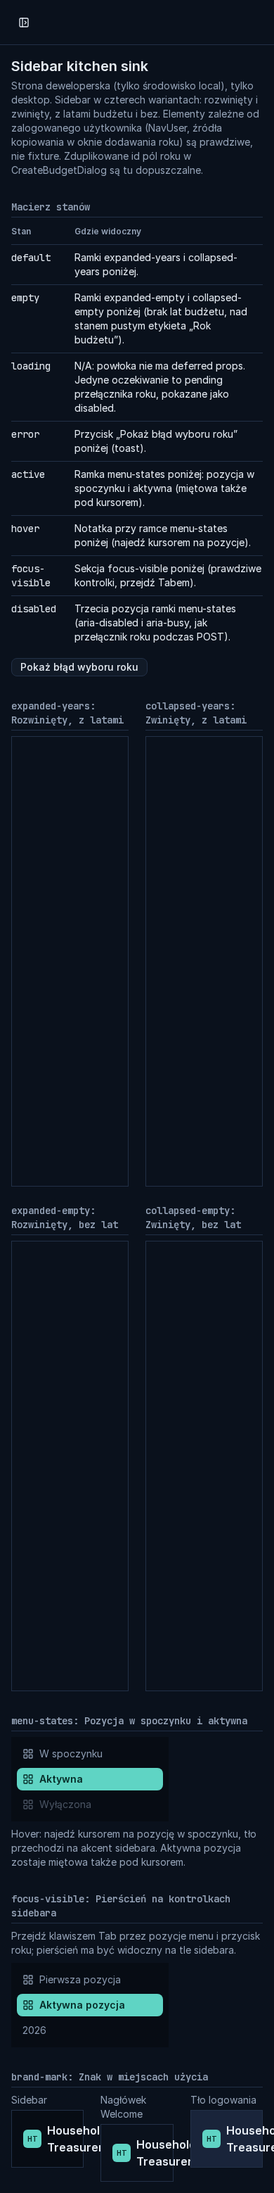
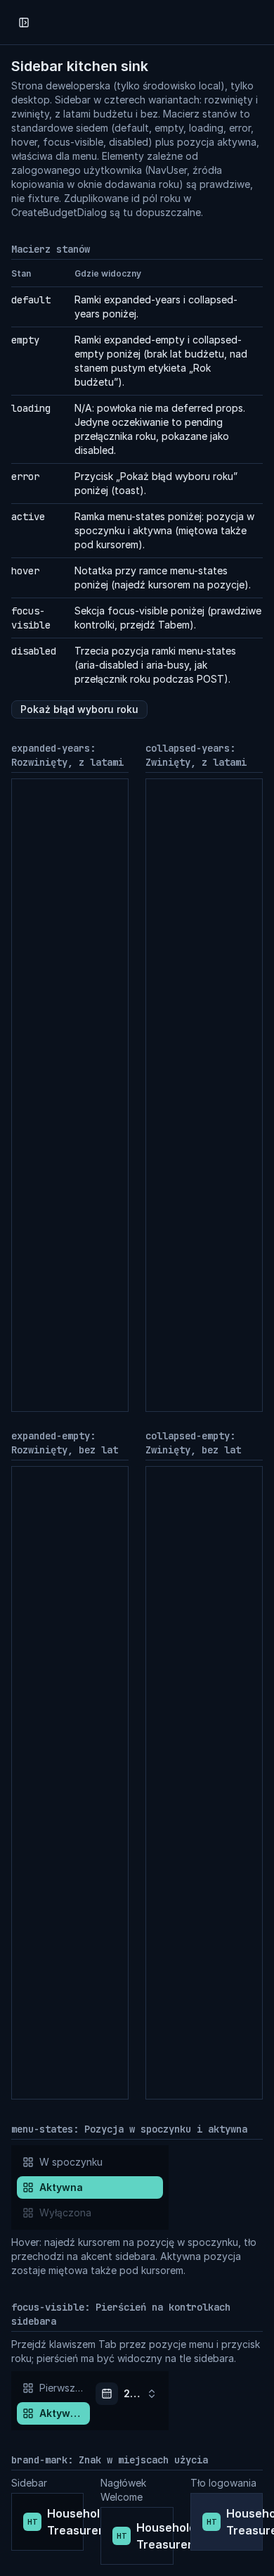
fix(sidebar-atrament-ui): poprawki z impl-review
Nazwa dostępna przycisku roku, centrowanie znaku i awatara w trybie ikon,
ramki sinka na wysokość okna z blokiem użytkownika, prawdziwy
BudgetYearSwitcher w sekcji focus-visible, ostrzejsze asercje kontraktu,
raport przeglądu i wyjątek dla ikony Vault w planie.

Claude-Session: https://claude.ai/code/session_01LmWq2eLztC18XusKPSGhRV

diff --git a/resources/js/pages/dev/SidebarKitchenSink.vue b/resources/js/pages/dev/SidebarKitchenSink.vue
@@ -3,6 +3,7 @@ import { Head, usePage } from '@inertiajs/vue3';
 import { LayoutGrid } from '@lucide/vue';
 import AppSidebar from '@/components/AppSidebar.vue';
 import BrandMark from '@/components/BrandMark.vue';
+import BudgetYearSwitcher from '@/components/BudgetYearSwitcher.vue';
 import { Button } from '@/components/ui/button';
 import {
     SidebarMenu,
@@ -125,7 +126,9 @@ const frames: SidebarFrame[] = [
             <p class="text-muted-foreground text-sm">
                 Strona deweloperska (tylko środowisko local), tylko desktop.
                 Sidebar w czterech wariantach: rozwinięty i zwinięty, z latami
-                budżetu i bez. Elementy zależne od zalogowanego użytkownika
+                budżetu i bez. Macierz stanów to standardowe siedem (default,
+                empty, loading, error, hover, focus-visible, disabled) plus
+                pozycja aktywna, właściwa dla menu. Elementy zależne od zalogowanego użytkownika
                 (NavUser, źródła kopiowania w oknie dodawania roku) są
                 prawdziwe, nie fixture. Zduplikowane id pól roku w
                 CreateBudgetDialog są tu dopuszczalne.
@@ -181,7 +184,7 @@ const frames: SidebarFrame[] = [
                     {{ frame.key }}: {{ frame.label }}
                 </h2>
                 <div
-                    class="relative h-160 transform-gpu overflow-hidden border"
+                    class="relative h-svh transform-gpu overflow-hidden border"
                 >
                     <SidebarProvider
                         :default-open="frame.defaultOpen"
@@ -262,12 +265,11 @@ const frames: SidebarFrame[] = [
                             <span>Aktywna pozycja</span>
                         </SidebarMenuButton>
                     </SidebarMenuItem>
-                    <SidebarMenuItem>
-                        <SidebarMenuButton>
-                            <span>2026</span>
-                        </SidebarMenuButton>
-                    </SidebarMenuItem>
                 </SidebarMenu>
+                <BudgetYearSwitcher
+                    :budget-years="[2025, 2026]"
+                    :budget-year="2026"
+                />
             </SidebarProvider>
         </section>
 

diff --git a/resources/js/ui-contract.test.ts b/resources/js/ui-contract.test.ts
@@ -227,8 +227,28 @@ describe('sidebar follows the Atrament Sidebar component (ADR-0053)', () => {
         expect(css).toMatch(/--sidebar-panel-width:\s*224px/);
     });
 
-    it('marks the current section with aria-current in NavMain', () => {
-        expect(read('components/NavMain.vue')).toContain('aria-current');
+    it('marks the current section with aria-current="page" from the same check as is-active', () => {
+        const navMain = read('components/NavMain.vue');
+
+        expect(navMain).toMatch(/:is-active="isActive\(item\)"/);
+        expect(navMain).toMatch(
+            /:aria-current="isActive\(item\) \? 'page' : undefined"/,
+        );
+    });
+
+    it.each(['components/AppLogo.vue', 'components/UserInfo.vue'])(
+        'centres the mark or avatar in the collapsed icon rail in %s',
+        (file) => {
+            expect(read(file)).toContain(
+                'group-data-[collapsible=icon]:mx-auto',
+            );
+        },
+    );
+
+    it('names the budget year button with the section label and the year', () => {
+        expect(read('components/BudgetYearSwitcher.vue')).toMatch(
+            /:aria-label="`\$\{t\.shell\.budget_year\}: \$\{budgetYear\}`"/,
+        );
     });
 
     it('renders section labels with label-caps', () => {
@@ -238,9 +258,13 @@ describe('sidebar follows the Atrament Sidebar component (ADR-0053)', () => {
     });
 
     it.each([
+        'components/AppSidebar.vue',
+        'components/AppLogo.vue',
         'components/BudgetYearSwitcher.vue',
-        'components/ui/sidebar/SidebarGroupLabel.vue',
         'components/NavMain.vue',
+        'components/NavUser.vue',
+        'components/UserInfo.vue',
+        'components/ui/sidebar/SidebarGroupLabel.vue',
     ])('does not dim text with text-sidebar-foreground/80 in %s', (file) => {
         expect(read(file)).not.toContain('text-sidebar-foreground/80');
     });

diff --git a/resources/js/components/UserInfo.vue b/resources/js/components/UserInfo.vue
@@ -26,7 +26,11 @@ const showAvatar = computed(
 <template>
     <Avatar
         class="overflow-hidden"
-        :class="variant === 'sidebar' ? 'size-7' : 'size-8'"
+        :class="
+            variant === 'sidebar'
+                ? 'size-7 group-data-[collapsible=icon]:mx-auto'
+                : 'size-8'
+        "
     >
         <AvatarImage v-if="showAvatar" :src="user.avatar!" :alt="user.name" />
         <AvatarFallback
@@ -40,7 +44,10 @@ const showAvatar = computed(
         </AvatarFallback>
     </Avatar>
 
-    <div class="grid flex-1 text-left text-sm leading-tight">
+    <div
+        class="grid flex-1 text-left text-sm leading-tight"
+        :class="variant === 'sidebar' && 'group-data-[collapsible=icon]:sr-only'"
+    >
         <span class="truncate font-medium">{{ user.name }}</span>
         <span
             v-if="variant === 'sidebar'"

diff --git a/resources/js/components/NavUser.vue b/resources/js/components/NavUser.vue
@@ -32,7 +32,9 @@ const { isMobile, state } = useSidebar();
                         data-test="sidebar-menu-button"
                     >
                         <UserInfo :user="user" variant="sidebar" />
-                        <ChevronsUpDown class="ml-auto size-4" />
+                        <ChevronsUpDown
+                            class="ml-auto size-4 group-data-[collapsible=icon]:hidden"
+                        />
                     </SidebarMenuButton>
                 </DropdownMenuTrigger>
                 <DropdownMenuContent

diff --git a/resources/js/components/BudgetYearSwitcher.vue b/resources/js/components/BudgetYearSwitcher.vue
@@ -109,6 +109,7 @@ function selectYear(value: unknown): void {
                         size="lg"
                         class="data-[state=open]:bg-sidebar-accent data-[state=open]:text-sidebar-accent-foreground"
                         :tooltip="`${t.shell.budget_year}: ${budgetYear}`"
+                        :aria-label="`${t.shell.budget_year}: ${budgetYear}`"
                         :aria-disabled="pending"
                         :aria-busy="pending"
                     >

diff --git a/resources/js/components/AppLogo.vue b/resources/js/components/AppLogo.vue
@@ -6,8 +6,10 @@ const name = usePage().props.name;
 </script>
 
 <template>
-    <BrandMark />
-    <div class="ml-1 grid flex-1 text-left text-sm">
+    <BrandMark class="group-data-[collapsible=icon]:mx-auto" />
+    <div
+        class="ml-1 grid flex-1 text-left text-sm group-data-[collapsible=icon]:sr-only"
+    >
         <span
             class="text-sidebar-strong mb-0.5 truncate leading-tight font-semibold"
             >{{ name }}</span

diff --git a/context/changes/sidebar-atrament-ui/reviews/impl-review.md b/context/changes/sidebar-atrament-ui/reviews/impl-review.md
@@ -1,0 +1,117 @@
+<!-- IMPL-REVIEW-REPORT -->
+# Implementation Review: Sidebar według komponentu Sidebar z Atramentu
+
+- **Plan**: context/changes/sidebar-atrament-ui/plan.md
+- **Scope**: Full plan
+- **Reviewed phases**: 1, 2, 3, 4, 5, 6
+- **Date**: 2026-11-06
+- **Verdict**: NEEDS ATTENTION
+- **Findings**: 0 critical, 4 warnings, 2 observations
+
+## Verification run (this review)
+
+| Command | Result |
+|---------|--------|
+| `npm test` | 33 files, 332 tests passed |
+| `npm run check:ui` | exit 0 |
+| `npm run types:check` | exit 0 |
+| `npm run build` | exit 0 |
+| `vendor/bin/sloppy ci` | 100/100, 0 findings |
+| Pest `SidebarKitchenSinkTest`, `AppShellTest` (PostgreSQL, worktree) | 12 passed, 165 assertions |
+| `grep -rn "AppLogoIcon\|Vault" resources/js` | 5 hits: 2 in `lib/category-appearance.ts` (Lucide category icon), 3 in `ui-contract.test.ts` (see F5) |
+
+Not run in this review: Playwright (`npx playwright test`), full `composer ci:check` on PostgreSQL, `php artisan boost:index-rules` (`.ai/rules/index.md` is not in the diff `e889272..HEAD`). Progress marks 4.2, 4.3, 5.6, 6.6 and 6.8 rest on the commit-time evidence, not on a re-run here.
+
+## Verdicts
+
+| Dimension | Verdict |
+|-----------|---------|
+| Plan Adherence | WARNING |
+| Scope Discipline | PASS |
+| Safety & Quality | WARNING |
+| Architecture | PASS |
+| Pattern Consistency | PASS |
+| Success Criteria | WARNING |
+
+## Findings
+
+### F1 — Przycisk roku budżetu traci nazwę dostępną „Rok budżetu”
+
+- **Severity**: ⚠ WARNING
+- **Impact**: 🏃 LOW — quick decision; fix is obvious and narrowly scoped
+- **Dimension**: Safety & Quality
+- **Location**: resources/js/components/BudgetYearSwitcher.vue:110-133, resources/js/components/AppSidebar.vue:87
+- **Detail**: Przed zmianą przycisk zawierał tekst „Rok budżetu” nad rokiem, więc jego nazwa dostępna brzmiała „Rok budżetu 2026”. Plan (faza 4, pkt 1) wynosi etykietę do osobnego `SidebarGroupLabel` (div) i zostawia w przycisku sam rok. Teraz przycisk z `aria-haspopup` ma nazwę „2026”, a etykieta nie jest z nim powiązana (w trybie ikon ma `opacity-0`). `tooltip` nie jest nazwą dostępną.
+- **Fix**: Dodać na `SidebarMenuButton` `:aria-label="`${t.shell.budget_year}: ${budgetYear}`"` (ten sam tekst co tooltip, zawiera widoczny tekst). Dopisać asercję do `ui-contract.test.ts` albo do specu E2E.
+- **Decision**: FIXED — Fix now: `:aria-label` na przycisku roku (BudgetYearSwitcher.vue:112) + asercja w `ui-contract.test.ts` (najpierw czerwona, potem zielona; `npm test` 333/333)
+
+### F2 — Znak „HT” i awatar nie są wyśrodkowane w trybie ikon
+
+- **Severity**: ⚠ WARNING
+- **Impact**: 🏃 LOW — quick decision; fix is obvious and narrowly scoped
+- **Dimension**: Safety & Quality
+- **Location**: resources/js/components/AppLogo.vue:9, resources/js/components/UserInfo.vue:27-29, resources/js/components/ui/sidebar/index.ts (size `lg`: `group-data-[collapsible=icon]:p-0!`)
+- **Detail**: Przycisk `lg` w trybie ikon ma 32 px bez paddingu, a `BrandMark` (26 px) i awatar `size-7` (28 px) są `shrink-0` bez centrowania. Recenzent zmierzył to na `sink-1280-light.png`: znak x=773–798 (środek 785,5), ikony menu x=782–795 (środek 788,5), czyli ok. 3 px w lewo; awatar o ok. 2 px. Zrzut potwierdza to wizualnie (znak „HT” lekko na lewo od kolumny ikon). Plan wymagał tylko, żeby znak „mieścił się” w przycisku 32×32, i tak jest, ale kolumna ikon jest przez to krzywa.
+- **Fix**: Wyśrodkować w trybie ikon (np. `group-data-[collapsible=icon]:mx-auto` na `BrandMark` w `AppLogo` i na `Avatar` w wariancie `sidebar`) i sprawdzić w ramce `collapsed-*` sinka.
+- **Decision**: FIXED — Fix now: `mx-auto` na `BrandMark` (AppLogo) i na awatarze wariantu `sidebar` (UserInfo), tekst obok w trybie ikon `sr-only` (nie `hidden`, żeby link logo i przycisk użytkownika zachowały nazwę dostępną), szewron w NavUser `hidden` w trybie ikon; straż w `ui-contract.test.ts`. Pomiar w przeglądarce (`/dev/ui/sidebar`, 1280 px): środek x znaku, ikon menu i awatara = 789 w obu zwiniętych ramkach (wcześniej znak ok. 3 px w lewo).
+
+### F3 — Ramki sinka nie pokazują bloku użytkownika (NavUser)
+
+- **Severity**: ⚠ WARNING
+- **Impact**: 🔎 MEDIUM — real tradeoff; pause to reason through it
+- **Dimension**: Success Criteria
+- **Location**: resources/js/pages/dev/SidebarKitchenSink.vue (ramki `expanded-*`, `collapsed-*`, `h-160`)
+- **Detail**: `Sidebar` ma `fixed inset-y-0 h-svh`, a ramka 640 px; stopka z `NavUser` zostaje poza ramką. Na `sink-1280-light.png` blok użytkownika widać tylko w prawdziwym sidebarze po lewej, rozwinięty. Zwinięty `NavUser` (nowy awatar 28 px, F2) nie jest nigdzie pokazany, mimo że opis strony i `design-system.md` obiecują wszystkie warianty, a kroki ręczne 4.7 i 6.9 zaznaczono jako ukończone.
+- **Fix A ⭐ Recommended**: Dać ramkom wysokość zgodną z `h-svh`, żeby stopka mieściła się w każdej z czterech ramek.
+  - Strength: Zero nowych elementów; wszystkie cztery warianty pokazują blok użytkownika w obu trybach.
+  - Tradeoff: Ramki stają się wyższe (cała wysokość okna), strona sinka dłuższa.
+  - Confidence: MED — wygląda na wynik `h-svh` z `Sidebar.vue:76`, ale nie sprawdzałem, czy `fixed` wewnątrz ramki zachowuje się tak samo.
+  - Blind spot: Nie uruchamiałem sinka w przeglądarce po takiej zmianie.
+- **Fix B**: Dodać osobną ramkę `user-block` z `NavUser` rozwiniętym (z długim e-mailem) i zwiniętym.
+  - Strength: Pokazuje też przypadek długiego e-maila z planu (krok 4.7).
+  - Tradeoff: Kolejne ramki do utrzymania.
+  - Confidence: HIGH — wzór ramek `data-frame` już jest w pliku.
+  - Blind spot: `NavUser` zależy od `SidebarProvider` i `usePage`; trzeba sprawdzić, czy da się go osadzić poza `AppSidebar`.
+- **Decision**: FIXED via Fix A (rekomendowana): ramki `expanded-*`/`collapsed-*` mają `h-svh` zamiast `h-160`. Pomiar: wysokość ramki 900 px, przycisk użytkownika widoczny w ramce rozwiniętej (207×48) i zwiniętej (32×32). Zrzuty `sink-{1280,390}-{light,dark}.png` odświeżone.
+
+### F4 — Słabe asercje w nowym `describe` kontraktu sidebara
+
+- **Severity**: ⚠ WARNING
+- **Impact**: 🏃 LOW — quick decision; fix is obvious and narrowly scoped
+- **Dimension**: Success Criteria
+- **Location**: resources/js/ui-contract.test.ts:216-218, 228-232
+- **Detail**: `toContain('aria-current')` przechodzi także przy komentarzu, przy `aria-current="false"` i przy zepsutym warunku; plan mówi „zawiera `aria-current`”, ale intencją jest ochrona wartości `page` sterowanej tym samym wyliczeniem co `is-active`. Jedyną realną ochroną jest spec E2E, którego CI nie uruchamia. Druga asercja: `NavMain.vue` nigdy nie miał wzorca `text-sidebar-foreground/80`, więc ta pozycja `it.each` jest wydmuszką, a `UserInfo`, `NavUser`, `AppLogo` nie są objęte.
+- **Fix**: Zaostrzyć do `/:aria-current="isActive\(item\) \? 'page' : undefined"/` oraz sprawdzić, że `:is-active` używa tego samego `isActive(item)`; listę plików z `/80` rozszerzyć o pliki sidebara albo zostawić ten przypadek `check:ui`.
+- **Decision**: FIXED — Fix now: asercja `aria-current` sprawdza `:aria-current="isActive(item) ? 'page' : undefined"` i `:is-active="isActive(item)"`; lista plików bez `text-sidebar-foreground/80` rozszerzona do `AppSidebar`, `AppLogo`, `BudgetYearSwitcher`, `NavMain`, `NavUser`, `UserInfo`, `SidebarGroupLabel` (`npm test` 339/339).
+
+### F5 — Kryterium 5.2 planu („0 trafień `Vault`”) nie jest literalnie spełnione
+
+- **Severity**: 💡 OBSERVATION
+- **Impact**: 🏃 LOW — quick decision; fix is obvious and narrowly scoped
+- **Dimension**: Plan Adherence
+- **Location**: resources/js/lib/category-appearance.ts:128, 269; resources/js/ui-contract.test.ts:256-283
+- **Detail**: Plan i Progress 5.2 mówią, że `grep -rn "AppLogoIcon\|Vault" resources/js` zwraca 0 trafień. Zwraca 5: dwa to Lucide `Vault` jako wybieralna ikona kategorii (istniała przed zmianą, nie jest w diffie), trzy to sam test. Test wprost wyłącza ten plik komentarzem. Intencja planu (znak produktu) jest spełniona; plan nie przewidział ikony kategorii.
+- **Fix**: Dopisać do planu (Progress 5.2 lub notatka) wyjątek `lib/category-appearance.ts`; kod bez zmian.
+- **Decision**: FIXED — Fix now: wyjątek dopisany w `plan.md` (Phase 5, Automated Verification, brak `Vault` i `AppLogoIcon`); tytuły kroków w Progress bez zmian.
+
+### F6 — Sekcja `focus-visible` w sinku nie używa prawdziwego przycisku roku; „7 stanów” a macierz ma 8 wierszy
+
+- **Severity**: 💡 OBSERVATION
+- **Impact**: 🏃 LOW — quick decision; fix is obvious and narrowly scoped
+- **Dimension**: Plan Adherence
+- **Location**: resources/js/pages/dev/SidebarKitchenSink.vue (sekcja `focus-visible`, trzecia pozycja; `stateMatrix`)
+- **Detail**: Plan (faza 6, pkt 1) mówi o „prawdziwych kontrolkach (pozycje menu i przycisk roku)”. Trzecia pozycja to zwykły `SidebarMenuButton` z napisem „2026” (na zrzucie bez ikony i szewronu), a opis sekcji mówi „przycisk roku”. Macierz ma 8 wierszy (default, empty, loading N/A, error, active, hover, focus-visible, disabled), a ADR i `design-system.md` mówią „siedem stanów”; kosmetyka.
+- **Fix**: Użyć w sekcji `focus-visible` prawdziwego `BudgetYearSwitcher` albo poprawić opis; ujednolicić liczbę stanów w tekstach.
+- **Decision**: FIXED — Fix now: sekcja `focus-visible` renderuje prawdziwy `BudgetYearSwitcher` (potwierdzone: przycisk „Rok budżetu: 2026” w sekcji); wstęp strony wyjaśnia, że macierz to standardowe siedem stanów plus pozycja aktywna. `disabled` zostaje statyczny, jak w planie.
+
+## Post-fix verification (2026-11-06)
+
+| Check | Result |
+|-------|--------|
+| `npm test` | 33 files, 339 tests passed |
+| `npm run check:ui`, `npm run types:check` | exit 0 |
+| Pest `tests/Unit` + `SidebarKitchenSinkTest` + `AppShellTest` (PostgreSQL, worktree) | 185 passed, 635 assertions |
+| `npx playwright test --workers=1` | 6 passed (w tym `sidebar-current-section`) |
+| `npx playwright test` (równolegle) | 5 passed, 1 failed: `import-other-format-without-header` (krok 1 importu nie przechodzi do podglądu po „Pokaż podgląd”; osobno i na 1 workerze przechodzi) |
+
+Uwaga: padający równolegle spec dotyczy importu, nie sidebara; nie sprawdzałem, czy pada też na `e889272` (baseline), więc nie twierdzę, że to stan sprzed zmiany. Podejrzenie: interakcja ze specem `account-edit-keeps-bank` na wspólnej bazie E2E (zrzut pokazuje toast „Account created.”). Do osobnego zgłoszenia.

diff --git a/context/changes/sidebar-atrament-ui/plan.md b/context/changes/sidebar-atrament-ui/plan.md
@@ -301,7 +301,7 @@ Jeden komponent znaku zastępuje `Vault` w sidebarze, na logowaniu i w `Welcome`
 #### Automated Verification:
 
 - Wszystkie asercje nowego `describe` przechodzą: `npm test -- resources/js/ui-contract.test.ts`
-- Brak `Vault` i `AppLogoIcon`: `grep -rn "AppLogoIcon\|Vault" resources/js` zwraca 0 trafień
+- Brak `Vault` i `AppLogoIcon`: `grep -rn "AppLogoIcon\|Vault" resources/js` zwraca 0 trafień poza `lib/category-appearance.ts` (Lucide `Vault` jako wybieralna ikona kategorii, dane użytkownika, nie znak produktu; wyjątek zapisany też w `ui-contract.test.ts`) i samym `ui-contract.test.ts` (impl-review F5)
 - Literały, w tym nowe pliki: `npm run check:ui`
 - Typy: `npm run types:check`
 - Build: `npm run build`

diff --git a/context/changes/sidebar-atrament-ui/change.md b/context/changes/sidebar-atrament-ui/change.md
@@ -1,7 +1,7 @@
 ---
 change_id: sidebar-atrament-ui
 title: Sidebar według komponentu Sidebar z design systemu Atrament
-status: implemented
+status: impl_reviewed
 created: 2026-11-06
 updated: 2026-11-06
 archived_at: null
